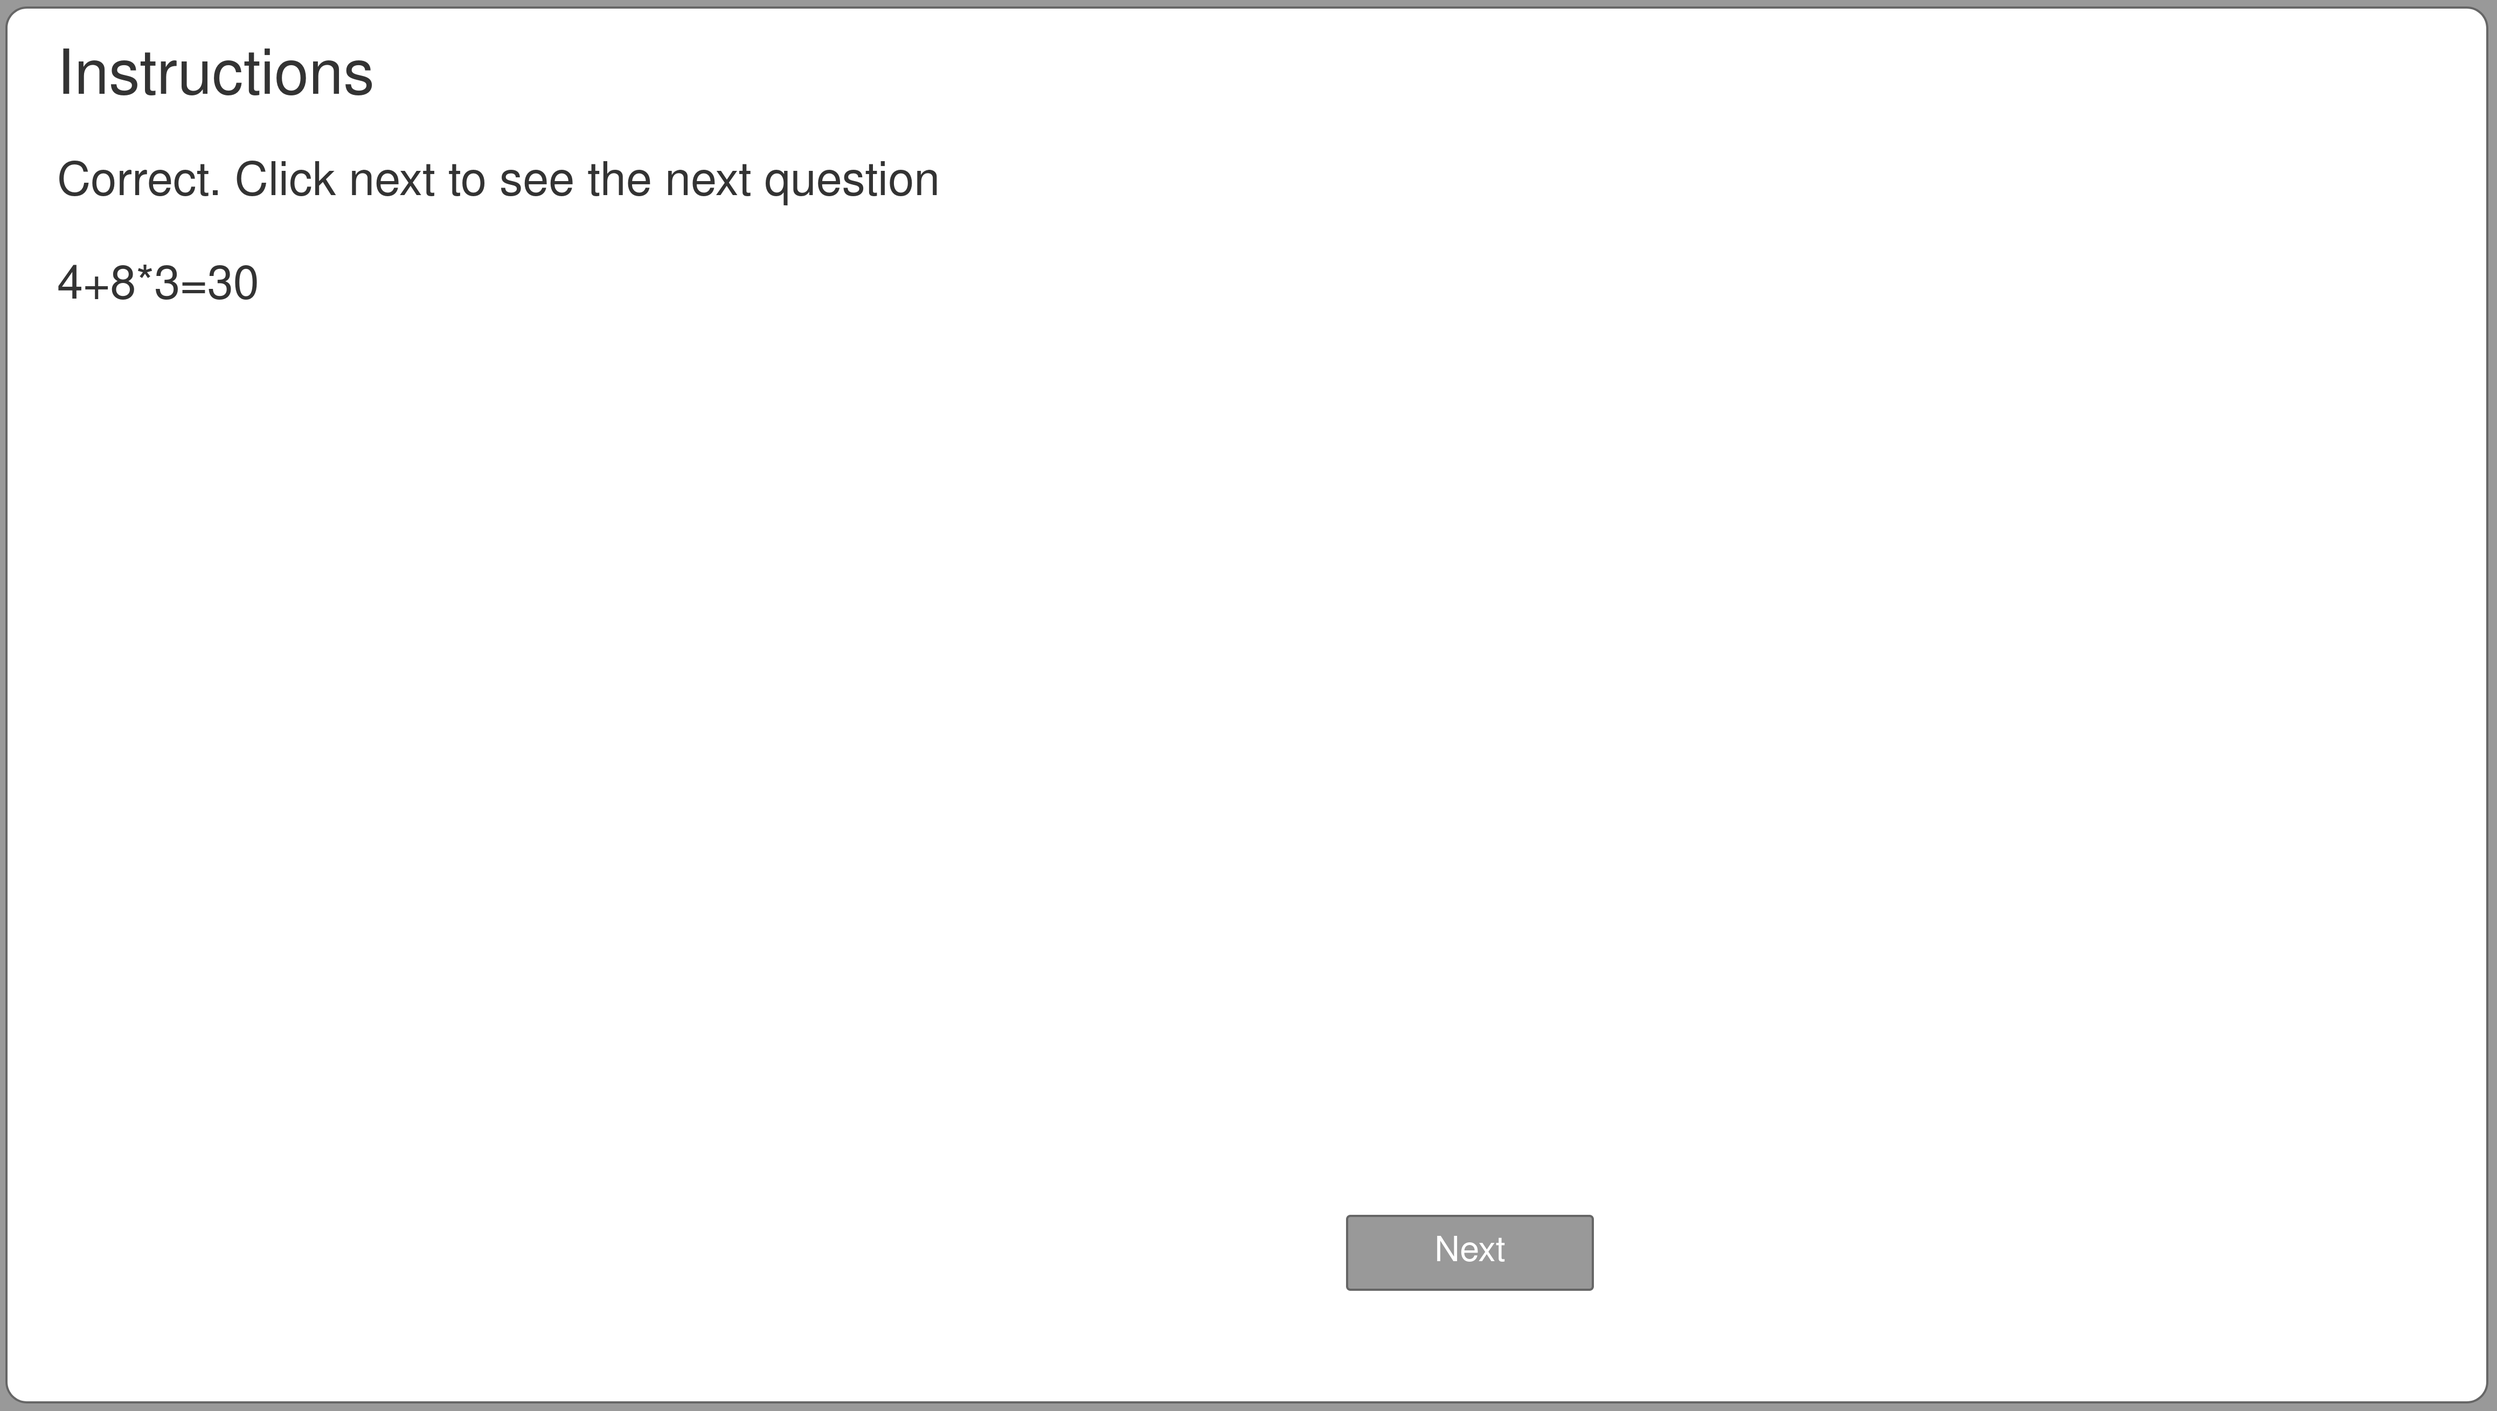
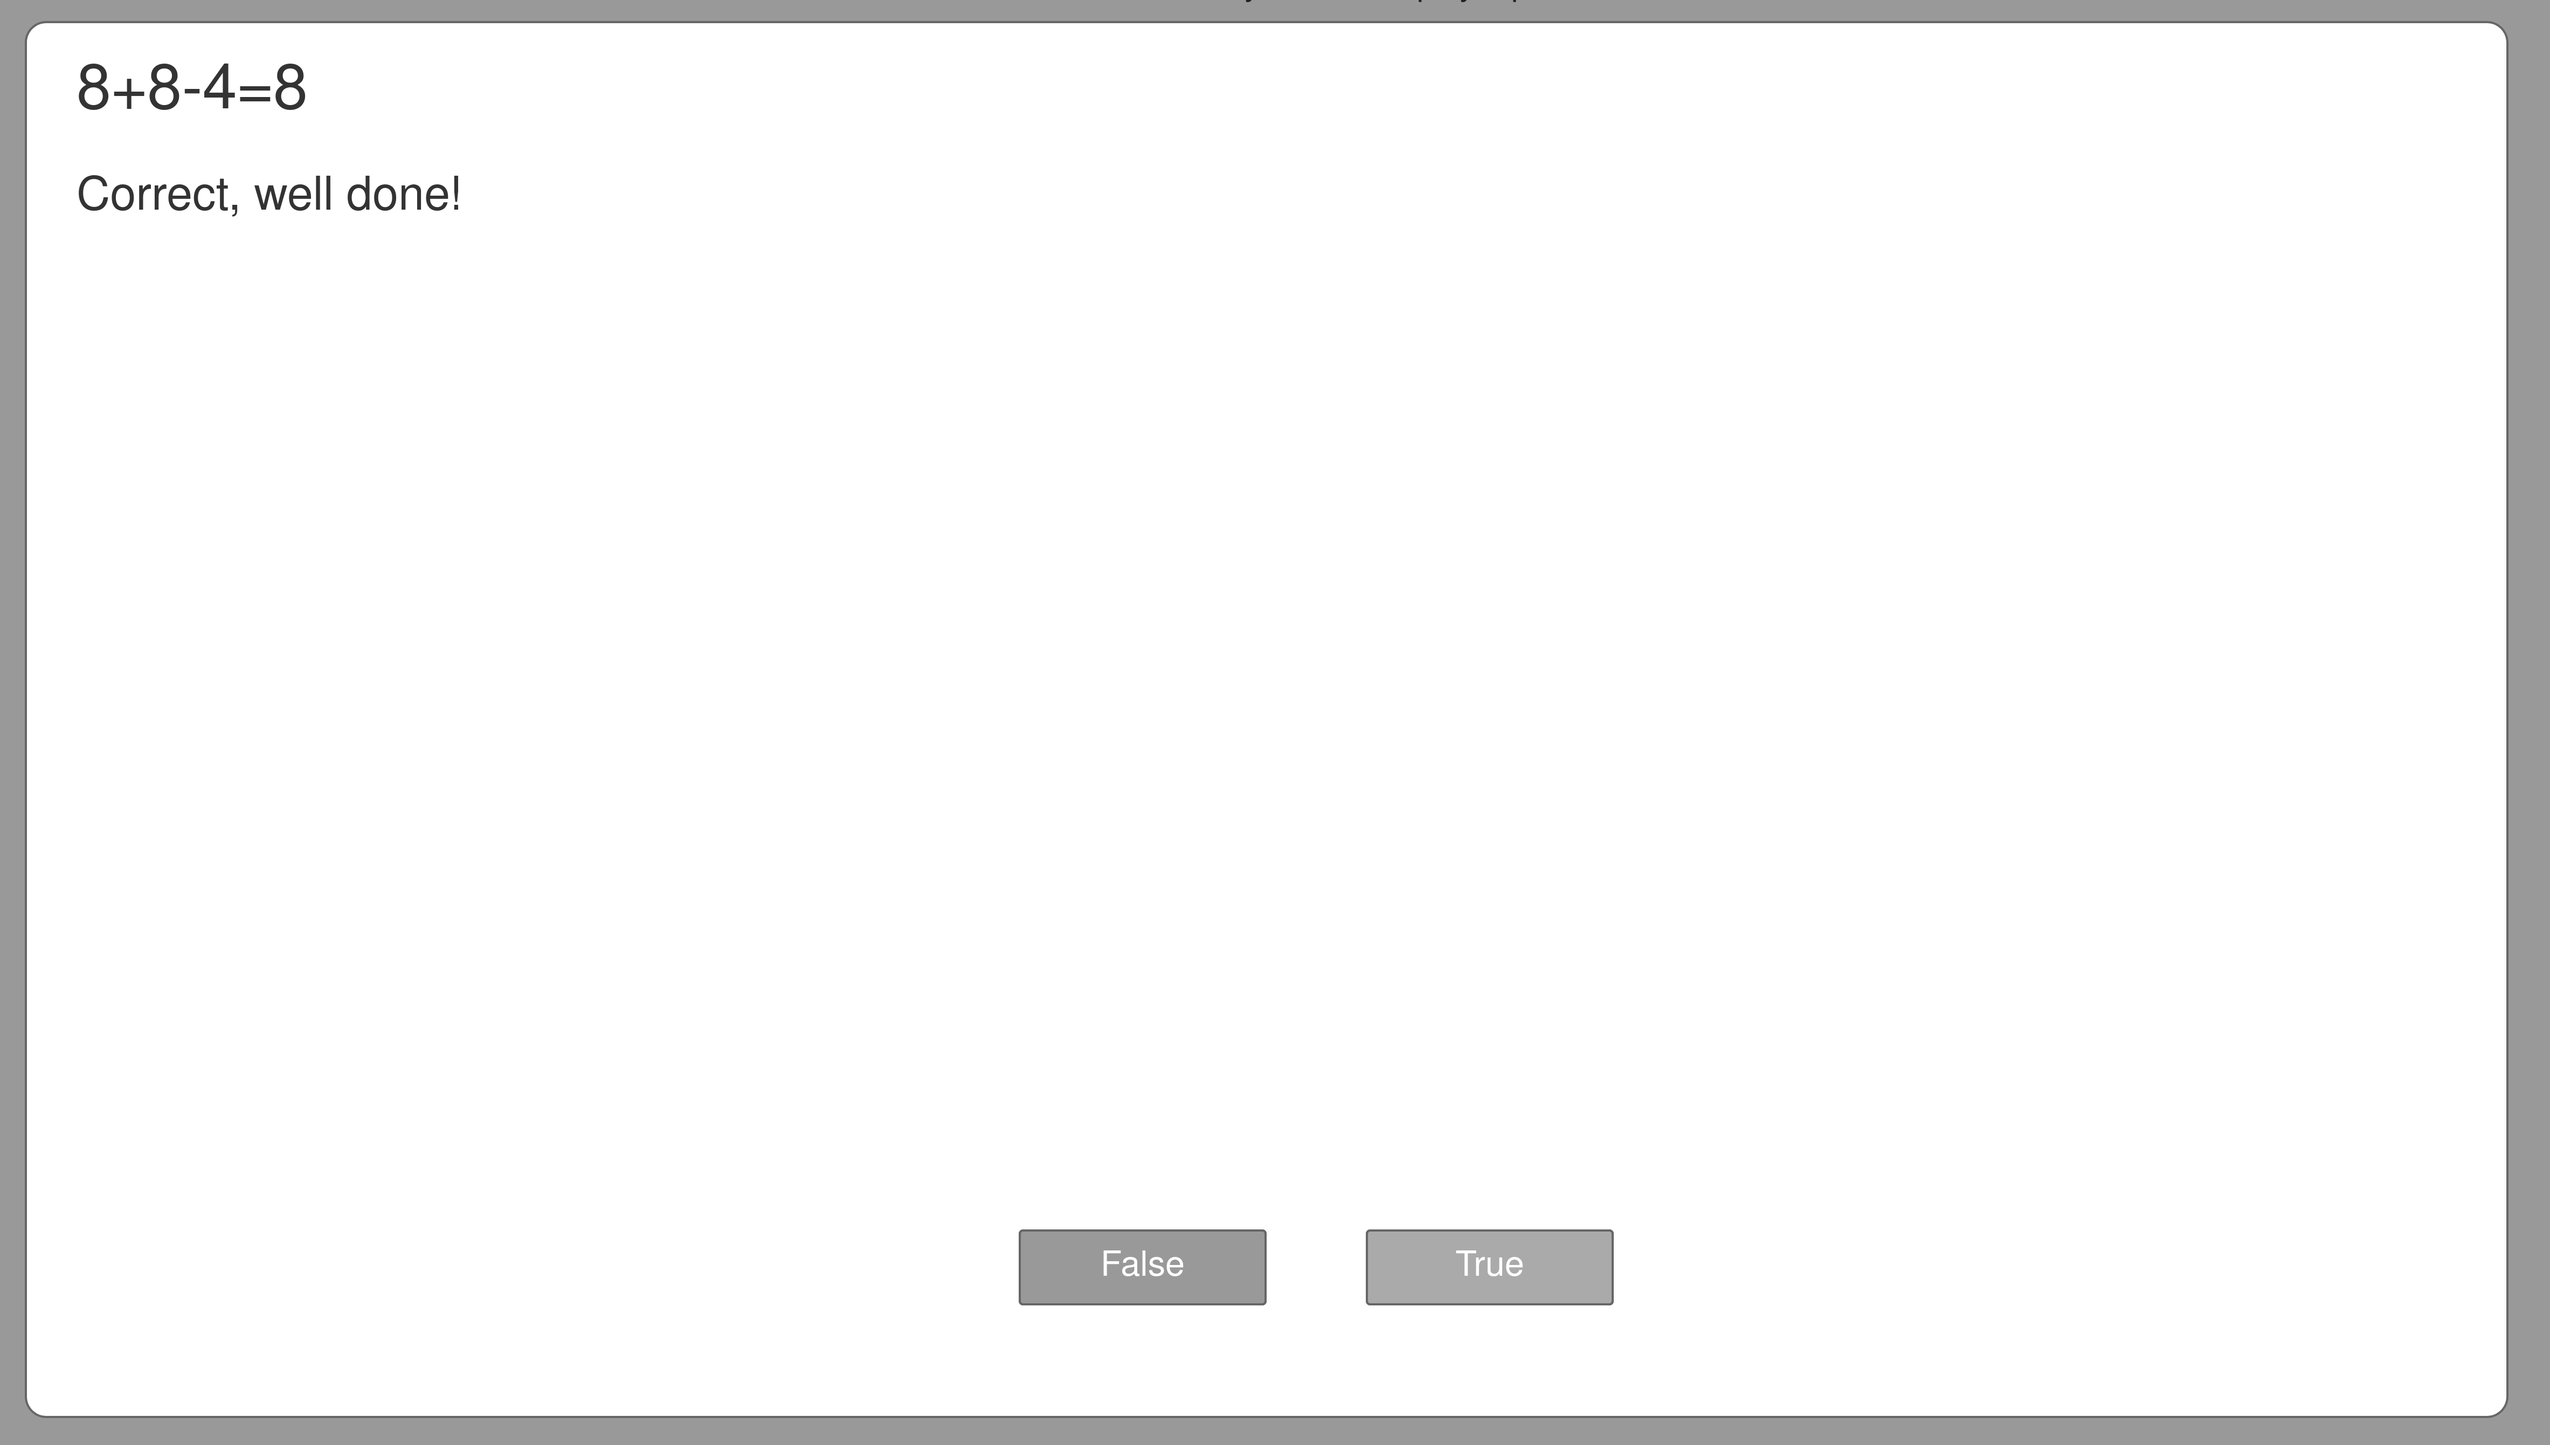
added a timer for mental arithmetic

Changed region(s): [[0.0, 0.0, 1.0, 1.0], [0.5283, 0.8354, 0.6526, 0.9282], [0.3729, 0.8354, 0.4972, 0.9282]]

diff --git a/static/js/4inarow_reconstruct_pilot.js b/static/js/4inarow_reconstruct_pilot.js
@@ -15,6 +15,8 @@ var dismissed_click_prompt = false;
 var lastresult = "win"
 var task_type
 var game_data = {}
+var feedback_text="",     seconds_remain = 5
+
 
 
 function load_game_data(filename){
@@ -52,7 +54,7 @@ function reconstruction_all(game_num){
 
     timer = setTimeout(function(){
         play_next_move(game_num)
-    }, 5000)
+    }, 500)
 
 }
 
@@ -69,18 +71,20 @@ function play_next_move(game_num){
         mi++
         timer = setTimeout(
             function(){
-                play_next_move(game_num)},5000);
+                play_next_move(game_num)},500);
     }
     else{
         //add_piece(move,color);
         //show_last_move(move, color);
         total_steps = bp.filter(x => x==1).length + wp.filter(x => x==1).length
         //$(".canvas").empty()
+        seconds_remain = 5
         distractor_mental_arithmetic(game_num)
         timer = setTimeout(function (){
+            clearInterval(interval)
             $('#instructions').hide();
             $('.overlayed').hide();
-
+            feedback_text = ""
             load_game_start(game_num)
             user_move(game_num)
         },10000)
@@ -192,6 +196,7 @@ function check_all_reconstructed(total_steps){
 }
 function start_game(game_num){
     log_data({"event_type": "start game", "event_info" : {"game_num" : game_num}})
+    instructions_text = "Instruction"
     if(game_num<num_practice_games){
         task_type = 'practice'
         $('.gamecount').text("Practice game " + (game_num+1).toString() + " out of " + num_practice_games.toString());
@@ -218,6 +223,7 @@ function end_game(game_num){
             finish_experiment()
         }
         else if (game_num == num_practice_games -1){
+            $('#instructions h4').show().text("Instruction");
             show_instructions(0,instructions_text_after_practice,instructions_urls_after_practice,function(){
                 start_game(game_num+1)
             },"Start")
@@ -257,36 +263,6 @@ function generate_random_tf_euqations(){
 }
 
 
-function feedback_right_MA(game_num){
-    $('#truebutton').hide()
-    $('#falsebutton').hide()
-    $('#instructions h4').after("<p>" + "Correct. Click next to see the next question" + "</p>");
-    $('#previousbutton').hide()
-    $('#nextbutton').text('Next')
-    $('#nextbutton').show().off("click").on("click",function(){
-        //$('.overlayed').hide();
-        //$('#instructions').hide();
-        //load_game_start(game_num)
-        //user_move(game_num)
-        distractor_mental_arithmetic(game_num)
-    });
-
-}
-function feedback_wrong_MA(game_num){
-    $('#truebutton').hide()
-    $('#falsebutton').hide()
-    $('#instructions h4').after("<p>" + "Incorrect. Click next to see the next question" + "</p>");
-    $('#previousbutton').hide()
-    $('#nextbutton').text('Next')
-    $('#nextbutton').show().off("click").on("click",function(){
-        //$('#instructions').hide();
-        //$('.overlayed').hide();
-        //load_game_start(game_num)
-        //user_move(game_num)
-        distractor_mental_arithmetic(game_num)
-    });
-}
-
 
 function distractor_mental_arithmetic(game_num){
     display_list =generate_random_tf_euqations()
@@ -294,28 +270,41 @@ function distractor_mental_arithmetic(game_num){
     instructions_text = display_list[true_or_false]
     $('.overlayed').show();
     $('#instructions').show();
-    $('.headertext h1').hide();
     $('.previousbutton').hide();
-    $('#instructions p').remove();
-    $('#instructions h4').after("<p>" + instructions_text + "</p>");
-    if (true_or_false == 0){
+    $('#instructions h4').show().text(instructions_text);
+    $('#headertext h1').show().text("you have " + seconds_remain + " seconds left to complete this question");
+    $('#instructions p').show().text(feedback_text);
+
+    interval = setInterval(function(){
+        seconds_remain--
+        $('#instructions p').show().text("You have " + seconds_remain + " seconds left to complete this question");
         $('#truebutton').show().off("click").on("click",function(){
-            feedback_right_MA(game_num)}
-        )
+            clearInterval(interval)
+            if (true_or_false==0){
+                feedback_text = "Correct, well done!"}
+            else {
+                feedback_text = "Incorrect, keep trying!"
+            }
+            seconds_remain = 5
+            distractor_mental_arithmetic(game_num)
+        })
 
         $('#falsebutton').show().off("click").on("click",function(){
-            feedback_wrong_MA(game_num)})
-    }
-    else {
-        $('#truebutton').show().off("click").on("click",function(){
-            feedback_wrong_MA(game_num)}
-            )
+            clearInterval(interval)
+            if (true_or_false==0){
+                feedback_text = "Incorrect, keep trying!"}
+            else {
+                feedback_text = "Correct, well done!"}
+            seconds_remain = 5
+            distractor_mental_arithmetic(game_num)
+        })
+        if (seconds_remain ===0){
+            clearInterval(interval)
+            feedback_text = "Oops, missed!"
+            seconds_remain = 5
+            distractor_mental_arithmetic(game_num)}
 
-        $('#falsebutton').show().off("click").on("click",function(){
-            feedback_right_MA(game_num)}
-            )
-    }
-
+        }, 1000)
 }
 
 function show_instructions(i,texts,urls,callback,start_text){
@@ -370,14 +359,13 @@ function initialize_task(_num_games,_num_practice_games,callback){
         "Click next to see the next circle, which will be white.",
         "That's all the circles for this demonstration." ,
         "In the real experiment, a circle will be added automatically every 5 seconds.",
-        "After seeing all the circles, you will need to complete some mental arithmetic task for 10 seconds.",
-        "You need to decide if the equation is true or false.",
-        "You will receive a feedback on your choice, click 'next' to see the next equation. ",
-        "You should complete as many of this task as possible in 10 seconds. ",
+        "After seeing all the circles, you will need to complete as many as mental arithmetic problems task for 10 seconds. You have up to 5 sec for each question. ",
+        "You need to decide if the equation is true or false.A timer under the question will show you the time you have left",
+        "The next question will show up after you made your choice. You will receive a feedback on your choice. ",
+        "The feedback will be displayed for 1 sec, and then the timer will show up again. ",
         "After 10 seconds of mental arithmetic, the initial screen will show up again.",
         "Your task is to recreate the occurrence of the 4-10 circles that you saw on the screen, in the order and location they appeared, by clicking on the location where they occurred the grid.",
-        "In the first circle, You can move your mouse to where you think the first circle appear.",
-        "You need to Click the mouse in the position to place the first circle, like shown here. ",
+        "In the first circle, You can move your mouse to where you think the first circle appear, and click there",
         "Repeat the process for the second circle",
         "Repeat the process for the third circle",
         "Repeat the process for the fourth circle",
@@ -398,7 +386,6 @@ function initialize_task(_num_games,_num_practice_games,callback){
         "arithmetic2",
         "initial",
         "",
-        "mousem1",
         "m1_re",
         "m2_re",
         "m3_re",

diff --git a/templates/exp.html b/templates/exp.html
@@ -35,7 +35,7 @@
 		<div class="overlayed"></div>
 		<div class="popup" id="instructions">
 			<h4 style="font-size:4vh;">Instructions</h4>
-			<img src="" style="width:70vw; height:58vh; border:none"></img>
+			<img src="" style="width:70vw; height:55vh; border:none"></img>
 			<button id="previousbutton" type="button" class="mybutton" style="bottom:8%;left:43%;width:10%">Previous</button>
 			<button id="nextbutton" type="button" class="mybutton" style="bottom:8%;left:57%;width:10%">Next</button>
 			<button id="truebutton" type = "button" class="mybutton" style="bottom:8%;left:57%;width:10%">True</button>
